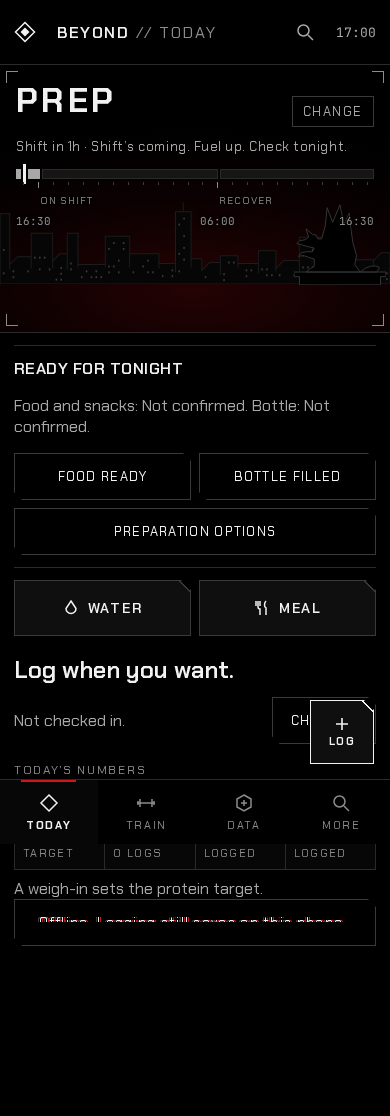
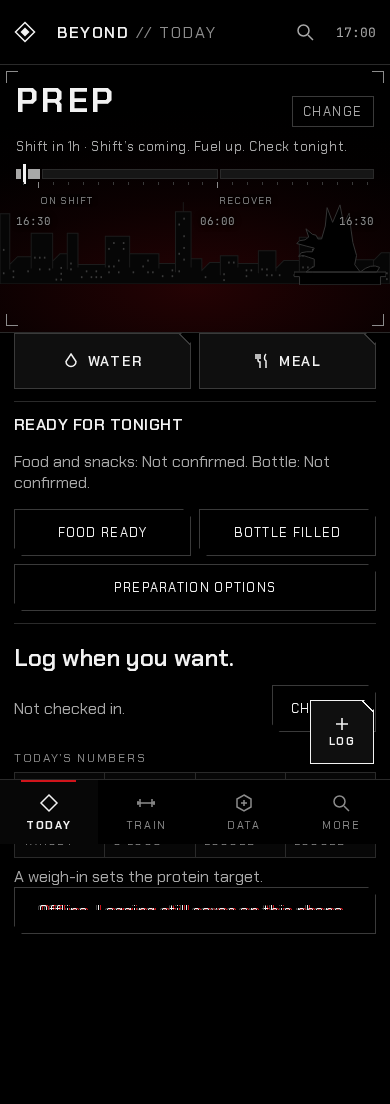
fix(prep): preserve logging controls within the phone fold

diff --git a/src/ui/screens/today/TodayScreen.tsx b/src/ui/screens/today/TodayScreen.tsx
@@ -2325,8 +2325,7 @@ export function TodayScreen({
   const statusSignal = !!systemStatus && systemStatus.level !== "GREEN" && systemStatus.level !== "NO_READ" && !nextIsReal;
   const checkInOwnedHere = !!day && !checkIn && dominant !== "OPERATION_CONFLICT" && !activeWorkout && !activeResetId && !activeShiftDownId && !lateRecoverWithoutSleep;
   const logSection = <>
-    <section aria-label="Log">{day && <WorkPreparation key={day.id} dayId={day.id} beforeWork={day.workContext === "WORK" && scheduledClock.phase === "PRE_WORK"} active={active} busy={busy || !!activeWorkout || !!activeResetId || !!activeShiftDownId} />}
-    {onOpenRecordSheet ? <LogActions open={onOpenRecordSheet} busy={busy} isInFlight={() => busyRef.current} /> : <ConsoleControls
+    <section aria-label="Log">{onOpenRecordSheet ? <LogActions open={onOpenRecordSheet} busy={busy} isInFlight={() => busyRef.current} /> : <ConsoleControls
           onWaterVisibilityChange={setWaterControlsVisible}
           onLogWater={handleMinimumDayLogWater}
           lastWaterAmount={lastWaterAmount}
@@ -2348,7 +2347,8 @@ export function TodayScreen({
             note: openFastCapture,
             ...(onOpenTrain ? { workout: () => onOpenTrain("WORKOUT") } : {}),
           }}
-        />}</section>
+        />}
+      {day && <WorkPreparation key={day.id} dayId={day.id} beforeWork={day.workContext === "WORK" && scheduledClock.phase === "PRE_WORK"} active={active} busy={busy || !!activeWorkout || !!activeResetId || !!activeShiftDownId} />}</section>
   </>;
   const nextSection = <>
       <section className="console-guidance" aria-label="Next action">

diff --git a/docs/agent/CURRENT_CHECKPOINT.md b/docs/agent/CURRENT_CHECKPOINT.md
@@ -15,13 +15,18 @@
   early. Persistence 12/12 and initial browser 10/10 PASS (including four axe sizes), TypeScript,
   architecture (308 files), build and diff check PASS. [Production acceptance](../screenshots/prep-001/README.md)
   PASS at phone/landscape/desktop, offline confirmations, frozen option, midnight reload, native
-  backup download/restore preview and unchanged non-preparation records. Final full gate covers
-  the compact two-column CSS refinement; no product change after capture.
+  backup download/restore preview and unchanged non-preparation records. Final verification covers
+  compact controls and retained logging-first placement; no product change after final capture.
 - **Review history:** WIP BLOCK `801d138` found time sorting could revive superseded state after
   clock correction. Causal-chain projection fixes it and rejects conflicting/incomplete chains;
   independent original probe and integration 12/12 PASS. Initial CI test-type/import/order
   issues corrected without assertion/configuration weakening. Final exact-head review and full
   gate/required CI results are recorded in #296 before readiness.
+- **Full-gate correction:** 2,984 passed / two failed / one skip on prior head. Retained original
+  Polish001 phone-fold assertion by moving preparation below existing Log controls. Preparation
+  and Polish001 now 23/23 PASS. Catalog follow-up had 57 pass / one different 15s timeout; original
+  MIRROR and TODAY TOOLS cases pass 2/2 alone. Final production acceptance refreshed: four sizes
+  PASS. Final full verification/review/CI results are recorded in #296.
 - **Next:** final full verification, independent review and green CI, then Gavin's separate merge
   approval. Spending and later campaign stages remain outside this focused step.
 

diff --git a/docs/agent/PREP-001.md b/docs/agent/PREP-001.md
@@ -43,3 +43,12 @@ clock-correction error in timestamp ordering. Replaced it with causal supersessi
 rejecting forks/orphans/cycles; the same independent probe and 12 integration tests pass on the
 corrected source. Final exact-head review/full gate/CI results are persisted in #296 before
 readiness. No Engine/schema/dependency change; Gavin separately approves merge.
+
+Full local gate on `82515e3`: 2,984 passed / two failed / one existing skip. Polish001 caught a
+real fold regression under RED guidance; moved preparation after the existing logging controls
+within the same Log section, preserving its original phone bounds and ordering assertions.
+Follow-up: Preparation + Polish001 pass 23/23; catalog file 57 pass / one TODAY TOOLS timeout
+(the original MIRROR timeout passes there); both timed-out navigation cases then pass 2/2 alone.
+No assertions/timeouts/configuration weakened. Refreshed all four production captures after the
+placement correction; PASS. Landscape MORE setup explicitly scrolls the existing search result
+above fixed navigation before its normal click. Final verification/review/CI recorded in #296.

diff --git a/docs/screenshots/prep-001/README.md b/docs/screenshots/prep-001/README.md
@@ -7,7 +7,7 @@ reviewed SHA and full verification/CI results are recorded in PR #296.
 
 PASS at 320×640, 390×844, 844×390, 1280×800:
 
-- One-tap food/bottle confirmations; no-action-required preparation state.
+- One-tap food/bottle confirmations, below existing Log controls; no-action-required preparation state.
 - Frozen alternative via native options sheet; CLOSE returns focus.
 - Only preparation events written; no meal, water or Obligation commands.
 - Offline reload after midnight retains the same day’s food and bottle facts.
